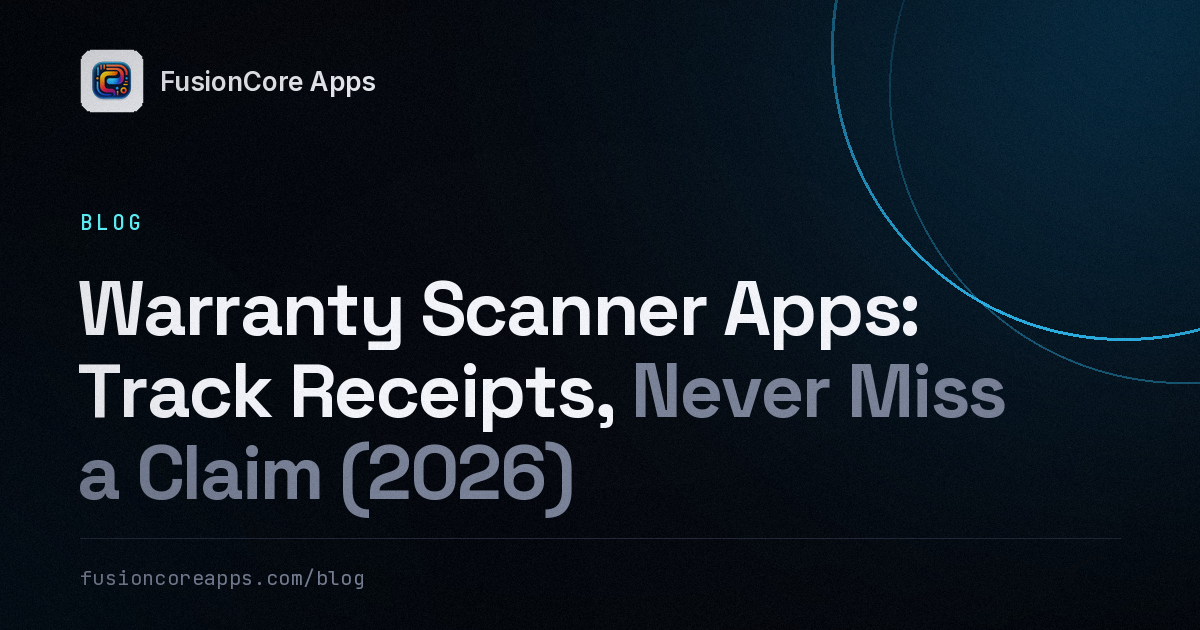
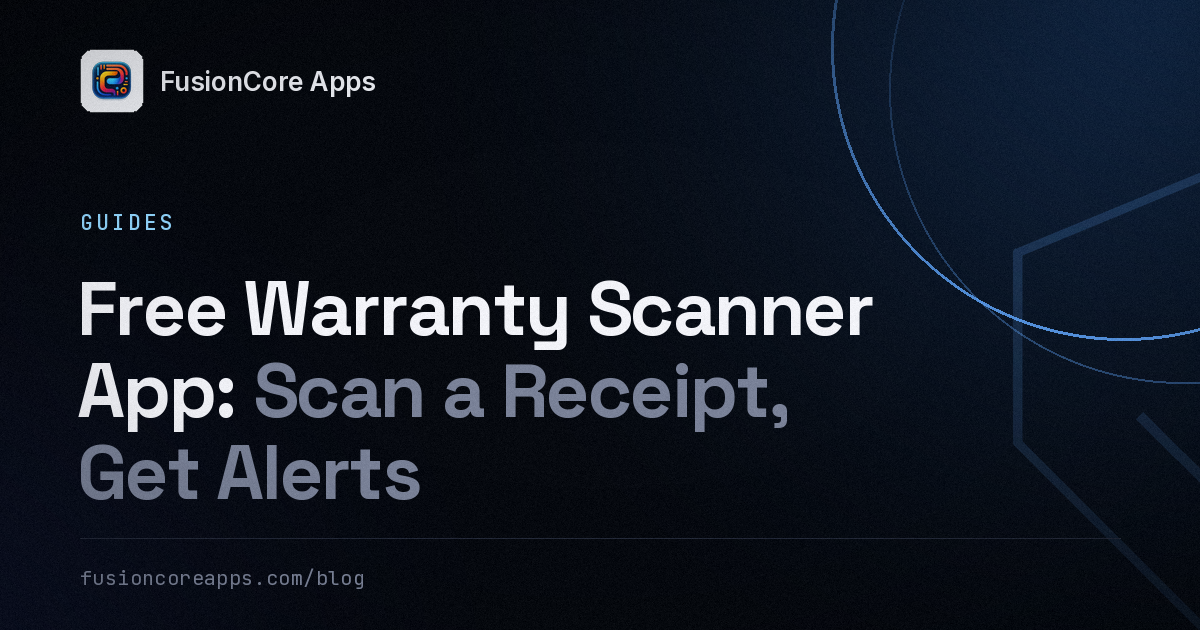
fix(content): retitle warranty scanner guide and confirm Claimly plan facts
- Warranty scanner guide: 0 clicks from ~2,900 impressions at position ~8
  over 3 months (and 0/43 since the 2026-10-10 title). New title leads with
  what searchers want: "Free Warranty Scanner App: Scan a Receipt, Get Alerts"
- Claimly plan limits confirmed in the app code (v1.1.4): 15 products,
  5 AI scans a month, 5 attachments per product, 3 custom categories,
  reminders 30/7/1 days; Premium is a monthly or yearly subscription that
  removes limits and ads; a short rewarded ad gets past a limit once
- Free-plan limits added next to Warranty Keeper's unlimited items in the
  comparison and roundup (en/es/pt)
- Launch date aligned with Google Play (April 16, 2026)

diff --git a/src/content/blog/es/mejores-apps-control-garantias-android.md b/src/content/blog/es/mejores-apps-control-garantias-android.md
@@ -61,7 +61,7 @@ Para verlas función por función, lee [Claimly vs Warranty Keeper](/es/compare-
 [Claimly](/es/apps/claimly-receipt-tracker) es nuestra app y salió en Google Play en abril de 2026. Escaneas el recibo y la IA completa la tienda, la fecha de compra, el producto y el monto, así que solo revisas en lugar de escribir. Cada producto puede tener más de una garantía: la del fabricante, la de la tienda y una extendida, cada una con su estado (vigente, por vencer o vencida) y sus avisos de vencimiento.
 
 - **Por qué elegirla:** no necesitas cuenta y tus datos se quedan en el teléfono; puedes guardar una copia de todo en un solo archivo .zip y restaurarla en un teléfono nuevo. Casi toda la app funciona sin conexión. Puedes adjuntar recibos, documentos de garantía, PDF y fotos a cada artículo, y un panel te muestra primero lo que está por vencer.
-- **Ten en cuenta:** es nueva, con más de 10 instalaciones y sin valoración pública todavía. Muestra anuncios y vende compras dentro de la app (de 2,99 a 24,99 US$ por artículo). Es solo para Android, el escaneo con IA necesita internet y ofrece copia y restauración, no sincronización automática entre dispositivos.
+- **Ten en cuenta:** es nueva, con más de 10 instalaciones y sin valoración pública todavía. Muestra anuncios y vende compras dentro de la app (de 2,99 a 24,99 US$ por artículo), y el plan gratis llega hasta 15 productos y 5 escaneos con IA al mes; Premium, una suscripción, quita los límites y los anuncios. Es solo para Android, el escaneo con IA necesita internet y ofrece copia y restauración, no sincronización automática entre dispositivos.
 
 ## 3. Warranty Book: la mejor para contactar al soporte de cada marca
 

diff --git a/src/content/blog/pt/melhores-apps-controle-garantias-android.md b/src/content/blog/pt/melhores-apps-controle-garantias-android.md
@@ -61,7 +61,7 @@ Para ver os dois recurso por recurso, leia [Claimly vs Warranty Keeper](/pt/comp
 O [Claimly](/pt/apps/claimly-receipt-tracker) é o nosso app e chegou ao Google Play em abril de 2026. Você escaneia o recibo e a IA preenche a loja, a data da compra, o produto e o valor, então você só confere em vez de digitar. Cada produto pode ter mais de uma garantia: a do fabricante, a da loja e uma estendida, cada uma com seu status (ativa, perto de vencer ou vencida) e seus avisos de vencimento.
 
 - **Por que escolher:** não precisa de conta e seus dados ficam no celular; dá para fazer backup de tudo em um único arquivo .zip e restaurar em um celular novo. Quase todo o app funciona offline. Dá para anexar recibos, documentos de garantia, PDFs e fotos a cada item, e um painel mostra primeiro o que está perto de vencer.
-- **Fique atento:** é novo, com mais de 10 instalações e ainda sem nota pública. Mostra anúncios e vende compras no app (de US$ 2,99 a US$ 24,99 por item). É só para Android, a leitura com IA precisa de internet e ele oferece backup e restauração, não sincronização automática entre aparelhos.
+- **Fique atento:** é novo, com mais de 10 instalações e ainda sem nota pública. Mostra anúncios e vende compras no app (de US$ 2,99 a US$ 24,99 por item), e o plano gratuito vai até 15 produtos e 5 leituras com IA por mês; o Premium, uma assinatura, tira os limites e os anúncios. É só para Android, a leitura com IA precisa de internet e ele oferece backup e restauração, não sincronização automática entre aparelhos.
 
 ## 3. Warranty Book: o melhor para falar com o suporte de cada marca
 

diff --git a/src/content/blog/en/best-warranty-tracker-apps-android.md b/src/content/blog/en/best-warranty-tracker-apps-android.md
@@ -61,7 +61,7 @@ For a feature-by-feature look at the two, see [Claimly vs Warranty Keeper](/comp
 [Claimly](/apps/claimly-receipt-tracker) is our app, launched on Google Play in April 2026. You scan a receipt and AI fills in the store, purchase date, product and amount, so you review the details instead of typing them. Each product can hold more than one warranty: manufacturer, store and an extended protection plan, each with its own status (active, expiring soon or expired) and expiry reminders.
 
 - **Why pick it:** no account is needed and your data stays on your phone; you can back everything up to a single .zip file and restore it on a new phone. Most of the app works offline. You can attach receipts, warranty documents, PDFs and photos to each item, and a dashboard shows what is expiring first.
-- **Watch out for:** it is new, with 10+ installs and no public rating yet. It shows ads and sells in-app purchases ($2.99–$24.99 per item). It is Android-only, the AI scan needs an internet connection, and it offers backup and restore rather than automatic sync between devices.
+- **Watch out for:** it is new, with 10+ installs and no public rating yet. It shows ads and sells in-app purchases ($2.99–$24.99 per item), and the free plan stops at 15 products and 5 AI scans a month; Premium, a subscription, lifts the limits and removes the ads. It is Android-only, the AI scan needs an internet connection, and it offers backup and restore rather than automatic sync between devices.
 
 For a closer look at how scanning works, see our [warranty scanner app guide](/blog/warranty-scanner-app-guide).
 

diff --git a/src/content/comparisons/es/claimly-vs-warranty-keeper.md b/src/content/comparisons/es/claimly-vs-warranty-keeper.md
@@ -85,6 +85,6 @@ Claimly no necesita cuenta. Tus registros se quedan en el teléfono y, en lugar 
 
 Warranty Keeper gana esta parte con claridad. Su ficha dice que es 100 % gratis con artículos ilimitados, y Google Play no muestra anuncios ni compras dentro de la app. Además, según su web oficial, está disponible para iPhone, así que sirve en una casa donde se mezclan Android y iPhone.
 
-Claimly se descarga gratis, pero muestra anuncios y vende compras dentro de la app (de 2,99 a 24,99 US$ por artículo en Google Play), y es solo para Android. También es muy nueva, con más de 10 instalaciones y sin valoración pública, frente a las más de 10.000 instalaciones y las 4,3 estrellas en 334 valoraciones de Warranty Keeper.
+Claimly se descarga gratis, pero muestra anuncios y vende compras dentro de la app (de 2,99 a 24,99 US$ por artículo en Google Play), y es solo para Android. Su plan gratis llega hasta 15 productos y 5 escaneos con IA al mes; Premium, una suscripción mensual o anual, quita los límites y los anuncios. También es muy nueva, con más de 10 instalaciones y sin valoración pública, frente a las más de 10.000 instalaciones y las 4,3 estrellas en 334 valoraciones de Warranty Keeper.
 
 En resumen: Warranty Keeper te da nube gratis en las dos plataformas y sin anuncios; Claimly te da escaneo con IA, varias garantías por producto y cero cuentas. Para ver todo el panorama, revisa nuestra guía de las [mejores apps para controlar garantías en Android](/es/blog/mejores-apps-control-garantias-android).

diff --git a/src/content/comparisons/pt/claimly-vs-warranty-keeper.md b/src/content/comparisons/pt/claimly-vs-warranty-keeper.md
@@ -85,6 +85,6 @@ O Claimly não precisa de conta. Seus registros ficam no celular e, em vez de si
 
 O Warranty Keeper vence esta parte com folga. A página dele diz que é 100% grátis com itens ilimitados, e o Google Play não mostra anúncios nem compras no app. Além disso, segundo o site oficial, ele está disponível para iPhone, então serve para uma casa que mistura Android e iPhone.
 
-O Claimly tem download grátis, mas mostra anúncios e vende compras no app (de US$ 2,99 a US$ 24,99 por item no Google Play), e é só para Android. Também é bem novo, com mais de 10 instalações e sem nota pública, contra as mais de 10.000 instalações e a nota 4,3 em 334 avaliações do Warranty Keeper.
+O Claimly tem download grátis, mas mostra anúncios e vende compras no app (de US$ 2,99 a US$ 24,99 por item no Google Play), e é só para Android. O plano gratuito vai até 15 produtos e 5 leituras com IA por mês; o Premium, uma assinatura mensal ou anual, tira os limites e os anúncios. Também é bem novo, com mais de 10 instalações e sem nota pública, contra as mais de 10.000 instalações e a nota 4,3 em 334 avaliações do Warranty Keeper.
 
 Resumindo: o Warranty Keeper oferece nuvem grátis nas duas plataformas e sem anúncios; o Claimly oferece leitura com IA, várias garantias por produto e nenhuma conta. Para ver o panorama completo, confira nosso guia dos [melhores apps para controlar garantias no Android](/pt/blog/melhores-apps-controle-garantias-android).

diff --git a/src/content/blog/es/google-play-12-testers-requirement.md b/src/content/blog/es/google-play-12-testers-requirement.md
@@ -50,7 +50,7 @@ Ese reparto es la lección útil, y no es la que esperábamos. El post del blog 
 
 **El contador de 14 días nunca se reinició y obtuvimos el acceso a producción en la primera solicitud.** Catorce testers activos, catorce días continuos, sin bajar nunca del mínimo. El margen de dos testers por encima del umbral explica buena parte de esa frase.
 
-El anuncio de la beta de Claimly salió el **31 de marzo de 2026**. La app llegó a producción en Google Play el **17 de abril de 2026**: unos diecisiete días después, aproximadamente el piso teórico de catorce días más la revisión. Ese calendario solo funciona si los testers ya están listos el día uno. Si te interesa la app en sí, aquí está [qué hace Claimly y cómo usarla](/es/blog/claimly-ya-disponible-google-play).
+El anuncio de la beta de Claimly salió el **31 de marzo de 2026**. La app llegó a producción en Google Play el **16 de abril de 2026**: unos dieciséis días después, aproximadamente el piso teórico de catorce días más la revisión. Ese calendario solo funciona si los testers ya están listos el día uno. Si te interesa la app en sí, aquí está [qué hace Claimly y cómo usarla](/es/blog/claimly-ya-disponible-google-play).
 
 Compárese todo eso con pagarle a un servicio: se gasta dinero, se reciben doce cuentas y al final uno no es dueño de nada. Ni hilo, ni post, ni testers a los que la app les importara.
 

diff --git a/src/content/blog/pt/google-play-12-testers-requirement.md b/src/content/blog/pt/google-play-12-testers-requirement.md
@@ -50,7 +50,7 @@ Essa divisão é a lição útil, e não é a que esperávamos. O post do blog e
 
 **O contador de 14 dias nunca reiniciou e conseguimos o acesso à produção logo na primeira solicitação.** Catorze testadores ativos, catorze dias contínuos, sem nunca cair abaixo do mínimo. A margem de dois testadores acima do limite explica boa parte dessa frase.
 
-O anúncio do beta do Claimly saiu em **31 de março de 2026**. O app chegou à produção no Google Play em **17 de abril de 2026**: cerca de dezessete dias depois, mais ou menos o piso teórico de catorze dias somado à revisão. Esse calendário só fecha se os testadores já estiverem prontos no dia um. Se tiver curiosidade sobre o app em si, veja [o que o Claimly faz e como usar](/pt/blog/claimly-agora-disponivel-google-play).
+O anúncio do beta do Claimly saiu em **31 de março de 2026**. O app chegou à produção no Google Play em **16 de abril de 2026**: cerca de dezesseis dias depois, mais ou menos o piso teórico de catorze dias somado à revisão. Esse calendário só fecha se os testadores já estiverem prontos no dia um. Se tiver curiosidade sobre o app em si, veja [o que o Claimly faz e como usar](/pt/blog/claimly-agora-disponivel-google-play).
 
 Compare tudo isso com pagar um serviço: você gasta dinheiro, recebe doze contas e, no fim, não é dono de nada. Nem thread, nem post, nem testadores que se importavam com o app.
 

diff --git a/src/content/comparisons/en/claimly-vs-warranty-keeper.md b/src/content/comparisons/en/claimly-vs-warranty-keeper.md
@@ -85,6 +85,6 @@ Claimly needs no account. Your records stay on your phone, and instead of syncin
 
 Warranty Keeper wins this section clearly. Its listing says it is 100% free with an unlimited number of items, and Google Play shows no ads and no in-app purchases. It is also available on iPhone, according to its official site, so a mixed Android and iPhone household can use it.
 
-Claimly is free to download, but it shows ads and sells in-app purchases ($2.99–$24.99 per item on Google Play), and it is Android-only. It is also brand new, with 10+ installs and no public rating yet, against Warranty Keeper's 10,000+ installs and 4.3 stars from 334 ratings.
+Claimly is free to download, but it shows ads and sells in-app purchases ($2.99–$24.99 per item on Google Play), and it is Android-only. Its free plan stops at 15 products and 5 AI scans a month; Premium, a monthly or yearly subscription, removes the limits and the ads. It is also brand new, with 10+ installs and no public rating yet, against Warranty Keeper's 10,000+ installs and 4.3 stars from 334 ratings.
 
 The trade-off comes down to this: Warranty Keeper gives you free cloud storage on both platforms with no ads; Claimly gives you AI scanning, layered warranties and no account. For a wider look at the category, see our guide to the [best warranty tracker apps for Android](/blog/best-warranty-tracker-apps-android).

diff --git a/src/content/blog/en/google-play-12-testers-requirement.md b/src/content/blog/en/google-play-12-testers-requirement.md
@@ -50,7 +50,7 @@ That split is the useful lesson, and it is not the one we expected going in. The
 
 **The 14-day counter never reset on us, and we were granted production access on the first application.** Fourteen opted-in testers, fourteen continuous days, never dropping below the threshold. The two-tester buffer above the minimum is a large part of why that sentence exists.
 
-Claimly's beta announcement went out on **March 31, 2026**. The app reached production on Google Play on **April 17, 2026** — about seventeen days later, roughly the theoretical floor of fourteen days plus review. That timeline only works if your testers are lined up on day one. If you are curious about the app itself, here is [what Claimly does and how to use it](/blog/claimly-now-available-google-play).
+Claimly's beta announcement went out on **March 31, 2026**. The app reached production on Google Play on **April 16, 2026** — about sixteen days later, roughly the theoretical floor of fourteen days plus review. That timeline only works if your testers are lined up on day one. If you are curious about the app itself, here is [what Claimly does and how to use it](/blog/claimly-now-available-google-play).
 
 Compare all of that to paying a service: you spend money, you get twelve accounts, and at the end you own nothing — no thread, no post, no testers who actually cared.
 

diff --git a/src/content/blog/pt/claimly-agora-disponivel-google-play.md b/src/content/blog/pt/claimly-agora-disponivel-google-play.md
@@ -133,14 +133,15 @@ Quando algo der defeito, abra o produto, veja qual garantia ainda cobre e siga o
 
 ## Gratuito vs. Premium
 
-Estes eram os limites de cada plano no lançamento, em abril de 2026. Confira a tela do Premium no app para ver os atuais. No Google Play do Brasil, as compras no app aparecem de R$ 15,99 a R$ 129,99 por item (verificado em 16 de outubro de 2026).
+Estes são os limites de cada plano na versão atual do app (1.1.4). O Premium é uma assinatura mensal ou anual. Quando você chega a um limite do plano gratuito, também pode assistir a um anúncio curto para passar dele daquela vez. No Google Play do Brasil, as compras no app aparecem de R$ 15,99 a R$ 129,99 por item (verificado em 16 de outubro de 2026).
 
 | Recurso | Gratuito | Premium |
 |---|---|---|
 | Produtos | Até 15 | Ilimitados |
 | Leituras de recibos | 5 por mês | Ilimitadas |
 | Alertas de garantia (30/7/1 dia) | Incluído | Incluído |
-| Anexos | Incluído | Incluído |
+| Anexos por produto | Até 5 | Ilimitados |
+| Categorias personalizadas | Até 3 | Ilimitadas |
 | Modo escuro | Incluído | Incluído |
 | Calendário de alertas personalizado | — | Incluído |
 | Sem anúncios | — | Incluído |

diff --git a/src/content/blog/es/claimly-ya-disponible-google-play.md b/src/content/blog/es/claimly-ya-disponible-google-play.md
@@ -133,14 +133,15 @@ Cuando algo se dañe, abre el producto, revisa qué garantía lo sigue cubriendo
 
 ## Gratis vs. Premium
 
-Estos eran los límites de cada plan en el lanzamiento, en abril de 2026. Revisa la pantalla de Premium en la app para ver los actuales; el precio en tu moneda aparece en la ficha de Google Play.
+Estos son los límites de cada plan en la versión actual de la app (1.1.4). Premium es una suscripción mensual o anual. Cuando llegas a un límite del plan gratis, también puedes ver un anuncio corto para saltarlo esa vez; el precio en tu moneda aparece en la ficha de Google Play.
 
 | Función | Gratis | Premium |
 |---|---|---|
 | Productos | Hasta 15 | Ilimitados |
 | Escaneos de recibos | 5 por mes | Ilimitados |
 | Alertas de garantía (30/7/1 día) | Incluido | Incluido |
-| Adjuntos | Incluido | Incluido |
+| Adjuntos por producto | Hasta 5 | Ilimitados |
+| Categorías personalizadas | Hasta 3 | Ilimitadas |
 | Modo oscuro | Incluido | Incluido |
 | Calendario de alertas personalizado | — | Incluido |
 | Sin anuncios | — | Incluido |

diff --git a/src/content/blog/en/claimly-now-available-google-play.md b/src/content/blog/en/claimly-now-available-google-play.md
@@ -133,14 +133,15 @@ When something breaks, open the product, check which warranty still covers it, a
 
 ## Free vs. Premium
 
-These were the plan limits at launch in April 2026. Check the Premium screen in the app for the current ones.
+These are the plan limits in the current version of the app (1.1.4). Premium is a monthly or yearly subscription. When you reach a free limit, you can also watch a short ad to get past it that one time.
 
 | Feature | Free | Premium |
 |---|---|---|
 | Products | Up to 15 | Unlimited |
 | Receipt scans | 5 per month | Unlimited |
 | Warranty alerts (30/7/1 day) | Included | Included |
-| Attachments | Included | Included |
+| Attachments per product | Up to 5 | Unlimited |
+| Custom categories | Up to 3 | Unlimited |
 | Dark mode | Included | Included |
 | Custom alert schedule | — | Included |
 | Ad-free | — | Included |
